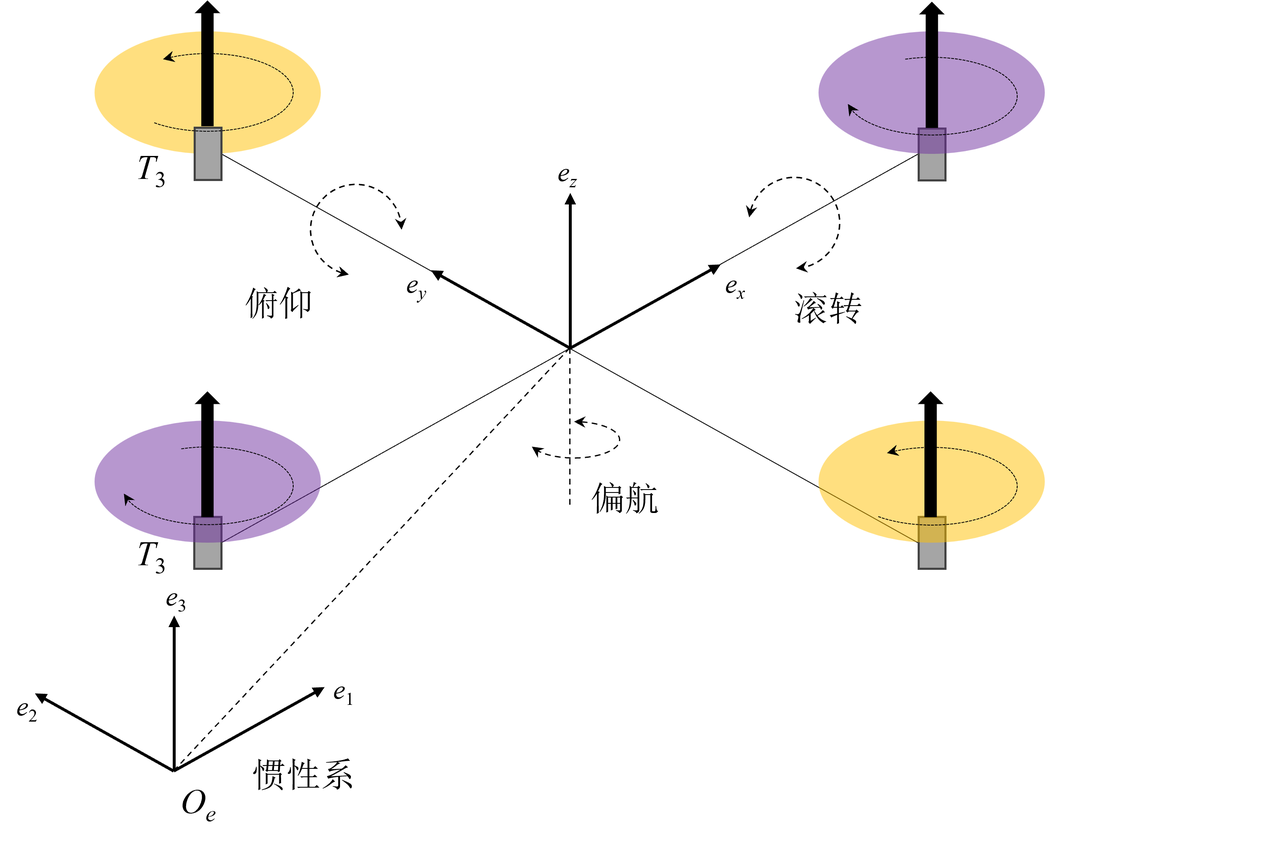
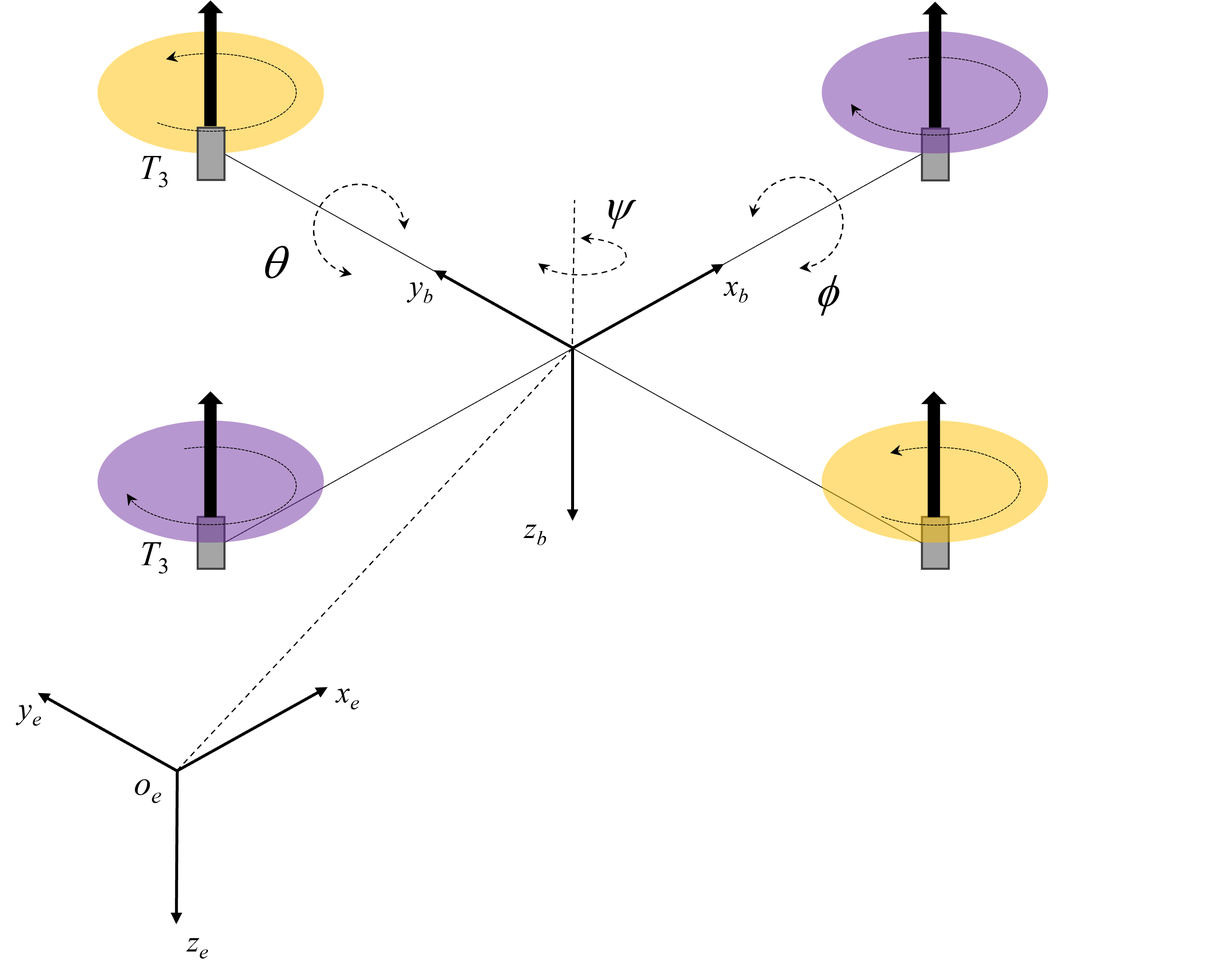
first commit

diff --git a/yanputhesis-sample.tex b/yanputhesis-sample.tex
@@ -32,8 +32,9 @@
 \usepackage{blindtext}                                      % 生成无意义文本
 \usepackage{metalogo}                                       % 软件标志
 \usepackage[binary-units=true]{siunitx}                     % 物理量单位
-\usepackage{amsmath}                                        % 基础数学库
-%\usepackage{bm}
+\usepackage{amsmath}    
+                                    % 基础数学库
+\usepackage{bm}
 %\usepackage{multirow}
 %\usepackage{bbm}
 %\usepackage{setspace}
@@ -138,7 +139,7 @@ A data-driven research on tethered hoisting \\ control of unmanned aerial vehicl
 
 系绳吊运载荷运输最初是为紧急响应、救援任务、民用和军事行动中的人力操作直升机而研究的\cite{2020A}。无人机绳系吊运载荷相比其它方法来说有着一系列的优越性，但随之而来的载荷也对无人机产生了一系列的影响。无人机绳系吊运系统是欠驱动和非线性耦合的，此外每个四旋翼无人机的动力学为载荷的摆动运动会引发无人机系统的不稳定性，同时给无人机系统增添了更多的自由度，使得此类系统的控制更具挑战性。
 
-在运输过程中，单无人机在利用吊装方式运输的时候载荷会存在摆动，且当需要运输的载荷重量与无人机系统的载荷重量相当时，任务可能会受到影响。为了解决这些问题，采用多个协作式的无人机绳系吊运系统是一个很有前途的替代方案，即将多架无人机按照期望的队形来分布，并使其在执行任务的过程中保持编队队形平稳飞行，从而圆满完成运输任务。多无人机绳系吊运系统通过根据有效载荷重量适当调整四旋翼无人机的数量，使这种悬挂式有效载荷配置能够实现最大的有效载荷输送效率，此外这种配置还可以有效控制载荷的姿态，解决了单无人机运输载荷出现摆动的问题，甚至在单无人机发生故障时仍可以完成任务需求。因此多无人机吊运负载具有可行性高、效率高以及扩展性强等单架无人机无法比拟的优势。但是，在依靠多无人机绳系吊运系统执行合作运输任务时，必须考虑一系列全新的因素。整个系统不仅受到载荷摆动的影响，而且还受到其它无人机运动的影响，如果单无人机的独立行动没有得到适当的协调，情况会变得更加复杂。
+在运输过程中，单无人机在利用吊装方式运输的时候载荷会存在摆动，且当需要运输的载荷重量与无人机系统的载荷重量相当时，任务可能会受到影响。为了解决这些问题，采用多个协作式的无人机绳系吊运系统是一个很有前途的替代方案，即将多架无人机按照期望的队形来分布，并使其在执行任务的过程中保持编队队形平稳飞行，从而圆满完成运输任务。多无人机绳系吊运系统通过根据有效载荷重量适当调整四旋翼无人机的数量，使这种悬挂式有效载荷配置能够实现最大的有效载荷输送效率，此外这种配置还可以有效控制载荷的姿态，解决了单无人机运输载荷出现摆动的问题，甚至在单无人机发生故障时仍可以完成任务需求。因此多无人机吊运载荷具有可行性高、效率高以及扩展性强等单架无人机无法比拟的优势。但是，在依靠多无人机绳系吊运系统执行合作运输任务时，必须考虑一系列全新的因素。整个系统不仅受到载荷摆动的影响，而且还受到其它无人机运动的影响，如果单无人机的独立行动没有得到适当的协调，情况会变得更加复杂。
 
 基于以上问题，本研究拟采用数据驱动方法来研究无人机绳系吊运系统，通过神经网络和无人机的动力学对整个系统进行动力学建模，提出了在线自适应神经元和模型预测控制相结合的控制算法对系绳的摆动进行抑制，在多无人机协同吊运中实现各个无人机功率消耗的均衡化，最终达到对搬运载荷的位姿的控制，有效提高系统的鲁棒性和安全性，为跨越峡谷、陡坡、滑坡体等障碍进行物资运输提供便捷、有效的手段，大大提高应急抢修作业效率，具有重要的应用价值。
 
@@ -148,7 +149,7 @@ A data-driven research on tethered hoisting \\ control of unmanned aerial vehicl
 
 对于无人机绳系吊装系统的建模方法，文献[13]假设系留综合缆绳的重力与所受风力作用于综合缆绳中心，且不考虑缆绳的拉伸变形，系留缆绳在自身重力、风的作用下呈现悬链线形状，可以求出无人机在不同位置时缆绳与机体的夹角。文献[14]基于珠点模型对水下系留无人机进行建模。文献[15]在假设缆绳不可拉伸、质量和阻尼可以忽略且具有零剪切刚度的前提下，通过分析二维平面上的无人机与系绳的运动学和动力学关系推导出系绳上的拉力。文献[16]在建立旋翼无人机的动力学模型之后，将系绳建模成无质量的，由一个阻尼单元和一个弹簧单元并联，这两个并联单元再与一个弹簧单元串联的结构。文献[17]将系绳建模为一系列通过非弹性杆连接的点质量块，通过分析这些杆件的动力学特性并进行仿真, 可以体现系绳的柔性。
 
-对于设计带有绳系吊装系统的无人机的控制器方法，卡耐基梅隆大学的Sceenath得到了定义在构型空间SE ( 3 ) × S2上的坐标自由动力学模型，并将其可以看作平坦输出的微分平坦混合系统，并给出了控制器设计的稳定性证明和仿真[18]。华盛顿大学的Lee团队提出了基于拉格朗日动力学在流形上的吊装负载，将柔性电缆用串行连接的链路进行建模，并用几何非线性控制渐近稳定无人机的位置[19]。墨西哥的Guerrero提出最小化吊装负载的摆动角度，以实现稳定[20]。香港科技大学的沈劭劼团队设计了一种具有分层扰动补偿策略的自适应NMPC来克服未知外部扰动和模型参数不准确的问题[21]。
+对于设计带有绳系吊装系统的无人机的控制器方法，卡耐基梅隆大学的Sceenath得到了定义在构型空间SE ( 3 ) × S2上的坐标自由动力学模型，并将其可以看作平坦输出的微分平坦混合系统，并给出了控制器设计的稳定性证明和仿真[18]。华盛顿大学的Lee团队提出了基于拉格朗日动力学在流形上的吊装载荷，将柔性电缆用串行连接的链路进行建模，并用几何非线性控制渐近稳定无人机的位置[19]。墨西哥的Guerrero提出最小化吊装载荷的摆动角度，以实现稳定[20]。香港科技大学的沈劭劼团队设计了一种具有分层扰动补偿策略的自适应NMPC来克服未知外部扰动和模型参数不准确的问题[21]。
 
 
 \subsection{多无人机绳系吊装载荷运输研究现状}
@@ -195,54 +196,324 @@ A data-driven research on tethered hoisting \\ control of unmanned aerial vehicl
 在本章中，将建立无人机绳系吊运系统的动力学模型。无人机绳系吊运系统由三个子系统构成：四旋翼、系绳以及吊运的载荷，系绳和吊运的载荷会对无人机自身造成一定的扰动。本章首先对四旋翼无人机的动力学模型进行推导，然后建立单无人机绳系吊运系统的动力学方程，进而将其推广到多无人机绳系吊运系统的动力学模型中，以此作为控制模型的基础。
 
 \section{单无人机绳系吊运系统的动力学模型}
-四旋翼无人机是一种基于旋翼的飞行器，由四个旋翼推动飞行。为了平衡扭矩，转子由两对对置的转子构成，一对正时针转动，一对反时针转动。四旋翼系统是高度非线性的，并且是一个欠驱动系统，有六个自由度和四个控制输入（即旋翼转速）。可以通过调整旋翼的转速来对四旋翼无人机进行控制，从而改变四旋翼无人机的扭矩和推力特性。如图 2-1 所示，四旋翼无人机设计为四个旋翼交叉共振。两个相对的旋翼沿同一方向旋转，通过改变旋翼的角速度可以控制四旋翼无人机的高度和位置。如果电机$T_1$、$T_2$、$T_3$和$T_4$产生的扭矩相同，则四旋翼无人机可以保持平衡位置而不旋转。
+四旋翼运输系统是一个复杂的系统，由四个旋翼组成，这些旋翼固定在刚性交叉体上。载荷通过绳系与四旋翼的主体连接，实现对载荷的精确控制和运输。
+四旋翼无人机是一种基于旋翼的飞行器，由四个旋翼推动飞行。为了平衡扭矩，转子由两对对置的转子构成，一对正时针转动，一对反时针转动。四旋翼系统是高度非线性的，并且是一个欠驱动系统，有六个自由度和四个控制输入（即旋翼转速）。可以通过调整旋翼的转速来对四旋翼无人机进行控制，从而改变四旋翼无人机的扭矩和推力特性。如图\ref{2_1}所示，四旋翼无人机设计为四个旋翼交叉共振。两个相对的旋翼沿同一方向旋转，通过改变旋翼的角速度可以控制四旋翼无人机的高度和位置。如果电机$T_1$、$T_2$、$T_3$和$T_4$产生的扭矩相同，则四旋翼无人机可以保持平衡位置而不旋转。
 
-\begin{figure}[htbp]
+\begin{figure}[hbt!]
 	\centering
-	\includegraphics[width=6 in]{picture/2_1.png}
-	\caption{四旋翼无人机动力学结构}
-	\label{fig-2_1}
+	\includegraphics[width=28pc]{picture/2_1.png} 
+	\caption{四旋翼无人机动力学结构} \label{2_1}
 \end{figure}
 
+
 对于四旋翼无人机的上升和下降，可以通过同时增加或减小电机$T_1$、$T_2$、$T_3$和$T_4$的转速来实现；滚转是四旋翼无人机通过向左或向右倾斜，以允许侧向移动的运动；俯仰是指四旋翼无人机通过前倾或后仰，向前或向后运动；偏航是指在与地面保持水平的情况下，以顺时针或逆时针的方式改变四旋翼无人机的方向。四旋翼无人机通过控制四个电机的转速，可以完成不同的飞行作业。本章根据四旋翼无人机的动力学特性建立数学模型，为下面章节控制器的设计奠定基础。
+
+
 \subsection{四旋翼无人机的坐标系}
+为了便于建模和描述，首先引入两个右手直角坐标系的定义，并给出两个坐标系之间的转换关系。
+\subsubsection{地面坐标系}
+地面坐标系$o_ex_ey_ez_e$用于研究四旋翼无人机相对于地面的运动状态，确定机体的三维位置。一般来说，在地面坐标系中，常用的局部坐标系统有 NED（North-East-Down）和ENU（East-North-Up）两种。NED坐标系$o_ex_e$轴指向正北，$o_ey_e$轴指向正东，$o_ez_e$轴垂直于地面向下。ENU坐标系 $o_ex_e$ 轴指向正东，
+$o_ey_e$ 轴指向正北，$o_ez_e$ 轴垂直向上，即指向天空的方向。NED 坐标系适合飞行器或船舶等需要考虑垂直下降的系统；而ENU 坐标系更直观，符合日常地理方向的习惯，常用于地面交通、测量和定位。本文使用NED坐标系，坐标原点选择在固连于地面的任意一点。
 
-\subsection{四旋翼无人机的动力学模型}
-四旋翼无人机模型分为动力学模型和运动学模型，动力学模型主要用于分析无人机的受力对无人机运动速度的影响，输入为无人机旋翼产生的拉力和力矩，输出为无人机的速度。运动学模型主要分析无人机速度对无人机位置变化产生的影响，输入为速度，输出为无人机的位置。四旋翼无人机的建模过程如下。
+\subsubsection{机体坐标系}
+本文的四旋翼无人机为“X”型气动布局结构，运动更加灵活。
+机体坐标系固连于四旋翼无人机，其原点取在四旋翼无人机的重心位置。$o_bx_b$轴在四旋翼无人机对称平面内指向机头。 $o_bz_b$轴在四旋翼无人机对称平面内，垂直轴向下。$o_by_b$轴按右手定则进行确定。机体坐标系与无人机固定连接，构成一个随四旋翼无人机运动的动坐标系。
+\subsubsection{地面坐标系与机体坐标系之间的转换关系}
+地面坐标系和机体坐标系的转换在无人机导航与控制中发挥着至关重要的作用。它可以帮助我们理解无人机在空间中的位置和姿态，同时实现精确的导航与控制。地面坐标系与机体坐标系之间的转换关系可以通过三个旋转矩阵来描述。具体来说，可以将地面坐标系依次沿机体坐标系进行旋转，即绕$z_b$轴旋转偏航角$\psi$，绕$y_b$旋转俯仰角$\theta$，绕$x_b$旋转滚转角$\phi$。对应的三个旋转矩阵$\boldsymbol{R}_\psi$、$\boldsymbol{R}_\theta$和$\boldsymbol{R}_\phi$分别为:
+$$
+\boldsymbol{R}_\psi=\begin{bmatrix}\cos\psi&-\sin\psi&0\\sin\psi&\cos\psi&0\\0&0&1\end{bmatrix} $$
+$$	\boldsymbol{R}_\theta=\begin{bmatrix}\cos\theta&0&\sin\theta\\0&1&0\\-\sin\theta&0&\cos\theta\end{bmatrix} $$
+$$\boldsymbol{R}_\phi=\begin{bmatrix}1&0&0\\0&\cos\phi&\sin\phi\\0&-\sin\phi&\cos\phi\end{bmatrix}
+$$
+
+因此，通过上述三个旋转矩阵，可以得到将任意矢量从地面坐标系转换到机体坐标系的转换矩阵为：
+$$\begin{aligned}\boldsymbol{R}_{e-b}&=\boldsymbol{R}_{\psi}\boldsymbol{R}_{\theta}\boldsymbol{R}_{\phi}\\&=\begin{bmatrix}\cos\theta\cos\psi&\cos\theta\cos\psi&-\sin\theta\\\sin\phi\sin\theta\cos\psi-\cos\phi\sin\psi&\sin\phi\sin\theta\sin\psi+\cos\phi\cos\psi&\sin\phi\cos\theta\\\cos\phi\sin\theta\cos\psi+\sin\phi\sin\psi&\cos\phi\sin\theta\sin\psi-\sin\phi\cos\psi&\cos\phi\cos\theta\end{bmatrix}\end{aligned}$$
+
+从机体坐标系到地面坐标系的转换矩阵为：
+$$\begin{aligned}\boldsymbol{R}_{b-e}&=\bm{R}_{e-b}^\mathrm{T}\\&=\begin{bmatrix}\cos\theta\cos\psi&\sin\phi\sin\theta\cos\psi-\cos\phi\sin\psi&\cos\phi\sin\theta\cos\psi+\sin\phi\sin\psi\\\cos\theta\cos\psi&\sin\phi\sin\theta\sin\psi+\cos\phi\cos\psi&\cos\phi\sin\theta\sin\psi-\sin\phi\cos\psi\\-\sin\theta&\sin\phi\cos\theta&\cos\phi\cos\theta\end{bmatrix}\end{aligned}$$
+
+\subsection{四旋翼无人机的模型}
+四旋翼无人机模型分为运动学模型、动力学模型和控制效率模型，动力学模型既涉及运动又涉及受力情况，与物体的质量和转动惯量相关，主要用于分析无人机的受力对无人机运动速度的影响，输入为无人机旋翼产生的拉力和力矩，输出为无人机的速度和角速度。运动学模型与质量和受力无关，主要分析无人机速度对无人机位置变化产生的影响，输入为速度和角速度，输出为无人机的位置和姿态。控制效率模型输入为螺旋桨转速，输出为拉力和力矩，当已知螺旋桨转速时，可以通过控制效率模型计算出拉力和力矩。
+
+为了简便，在对四旋翼无人机进行建模时，做了如下假设：
+
+(1)四旋翼无人机是刚体结构，没有内力，飞行时结构无形变；
+
+(2)四旋翼无人机的质量、螺旋桨阻力系数和转动惯量等基础参数默认不变；
+
+(3)四旋翼无人机总保持对称结构，其几何中心与重心位置一致；
+
+(4)四旋翼无人机只受重力和螺旋桨拉力影响，其中重力沿$o_ez_e$轴正方向，螺旋桨拉力沿$o_bz_b$轴负方向。
+
+运动学方程描述了无人机位置与速度以及速度和角速度之间的关系，其运动学方程可以表示为：
+
+\begin{equation}
+    \begin{aligned}
+	\dot{\boldsymbol{p}}_e &= \boldsymbol{v}_e = \bm{R}_{b-e} \bm{v}_b \\
+	\bm{\Theta}_e &= \bm{W}_{b-e} * \bm{\omega}_b
+\end{aligned}\label{2-1}
+\end{equation}
+其中，$\boldsymbol{p}_e=\left[x,y,z\right]^\mathrm{T}$为无人机在地面坐标系下的位置坐标，$\boldsymbol{v}_e=\left[v_{x},v_{y},v_{z}\right]^\mathrm{T}$为无人机在地面坐标系下的线速度，$\boldsymbol{v}_b=\left[u,v,w\right]^\mathrm{T}$表示无人机在机体坐标系下的线速度，$u$、$v$、$w$表示分别沿$x$、
+$y$、$z$机体坐标轴方向的线速度分量，$\boldsymbol{R}_{b-e}$为上一小节定义的转换矩阵，$\bm{\Theta}_e=\left[\phi,\theta,\psi\right]^\mathrm{T}$表示无人机在地面坐标系下的姿态角度，$\bm{W}_{b-e}$表示地面坐标系下欧拉角速度变换到机体旋转角速度的旋转矩阵，$\boldsymbol{\omega}_b=\left[{\omega}_{xb},{\omega}_{yb},{\omega}_{zb}\right]^\mathrm{T}$ 为无人机机体坐标系下的角速度，可以得到姿态旋转矩阵具体形式如式(\ref{2-2})所示：
+\begin{equation}
+	\boldsymbol{\omega}_b=\begin{bmatrix}\omega_{xb}\\\omega_{yb}\\\omega_{zb}\end{bmatrix}=\begin{bmatrix}1&0&-\sin\theta\\0&\cos\phi&\cos\theta\sin\phi\\0&-\sin\phi&\cos\theta\cos\phi\end{bmatrix}\begin{bmatrix}\dot\phi\\\dot\theta\\\dot\psi\end{bmatrix}
+	\label{2-2}
+\end{equation}
+
+
+
+一般来说，四旋翼无人机飞行时其姿态角在小范围内运动，可以近似认为有下式成立：
+\begin{equation}
+	\boldsymbol{\omega}_b=\begin{bmatrix}{\omega}_x\\{\omega}_y\\{\omega}_z\end{bmatrix}=\begin{bmatrix}\dot{\phi}\\\dot{\theta}\\\dot{\psi}\end{bmatrix}
+	\label{2-3}
+\end{equation}
+
+以上详细描述了四旋翼无人机系统的运动学模型以及其在不同坐标系下的位置与线速度、角度与角速度之间的转换关系。接下来，将无人机整体视为一个刚体，将其分解为平移运动和旋转运动两个部分。通过牛顿法分析其平移运动，通过欧拉法分析其旋转运动，从而构建其动力学模型。其动力学的基本方程如式(\ref{2-4})所示：
+\begin{equation}
+	\begin{aligned}
+		m\dot{\boldsymbol{v}}_e&=mg\bm{e}_{3}-\boldsymbol{R}_{b-e}f\bm{e}_{3}\\
+		\boldsymbol{J}\dot{\boldsymbol{\omega}_b}&=-\bm \omega_b \times \bm J \bm \omega_b+\boldsymbol{\tau}
+	\end{aligned}\label{2-4}
+\end{equation}
+其中$m$为无人机的质量，$g\in\mathbb{R}_+$为重力加速度，$\bm{e_{3}}=\left[0,0,1\right]^\mathrm{T}$，$\boldsymbol{\tau}=\left[\tau_x,\tau_y,\tau_z\right]^\mathrm{T}$表示无人机四个螺旋桨产生的扭矩，$\boldsymbol{J}$为无人机的惯量矩阵，$f\in\mathbb{R}_+\cup\{0\}$表示无人机螺旋桨总拉力的大小，该拉力是单向的,其形式如式 (\ref{2-5})所示：
+\begin{equation}
+	f=\sum_{i=1}^4f_i=c_\mathrm{T}\Omega_i^2
+	\label{2-5}
+\end{equation}
+其中$f_i$表示表示一个旋翼在机体坐标系下旋转产生的升力，与旋翼的转速的平方正相关。$c_\mathrm{T}=1/4\pi^2\cdot\rho D_\mathrm{p}^4C_\mathrm{T}$为螺旋桨的升力系数，大小与其自身的材质、倾斜角等因素有关，$\Omega_i$为
+单个螺旋浆的旋转速度。由于本文采用“X”型气动布局，实际力臂长度是机臂长度的$\sqrt{2}/2$倍，可以得到无人机每个螺旋桨产生的力矩如式(\ref{2-6})所示：
+
+
+\begin{equation}
+	\left\{ \begin{array}{l}
+		\tau_x={\sqrt{2}}/{2}dc_\mathrm{T}\left(\Omega_1-\Omega_2-\Omega_3+\Omega_4\right)\\
+		\tau_y={\sqrt{2}}/{2}dc_\mathrm{T}\left(\Omega_1+\Omega_2-\Omega_3-\Omega_4\right)\\
+		\tau_z=c_\mathrm{M}\left(\Omega_1-\Omega_2+\Omega_3-\Omega_4\right)\\
+	\end{array} \right.
+		\label{2-6}
+\end{equation}
+其中$c_M$为螺旋桨的反扭力系数，其产生的力矩方向沿$z$轴方向。$d\in\mathbb{R}_+$为无人机重心和任一电机转动轴线之间的距离。为了能够对应控制器中的控制量，定义虚拟控制变量为$\bm{U}=\left[U_1,U_2,U_3,U_4\right]^\mathrm{T}=\left[f,\tau_x,\tau_y,\tau_z\right]^\mathrm{T}$，那么，将式(\ref{2-2})、(\ref{2-3})、(\ref{2-5})、(\ref{2-6})代入式(\ref{2-1})和(\ref{2-4})中，即可得到四旋翼无人机的控制模型：
+
+
+\begin{equation}
+		\left\{
+	\begin{aligned}
+		&\dot{x}=v_{x}\\
+		&\dot{y}=v_{y}\\
+		&\dot{z}=v_{z}\\
+		&\ddot{x}=\frac{U_{1}}{m}\left(\cos\phi\cos\psi\sin\theta+\sin\phi\sin\psi\right)\\
+		&\ddot{y}=\frac{U_{1}}{m}\left(\cos\phi\sin\psi\sin\theta-\cos\psi\sin\phi\right)\\
+		&\ddot{z}=\frac{U_{1}}{m}\left(\cos\phi\cos\theta\right)-g\\
+		&\dot{\phi}={\omega}_x+\tan\theta\left({\omega}_y\sin\phi+{\omega}_z\cos\phi\right)\\
+		&\dot{\theta}={\omega}_y\cos\phi-{\omega}_z\sin\phi\\
+		&\dot{\psi}=\frac{{\omega}_y\sin\phi+{\omega}_z\cos\phi}{\cos\theta}\\
+		&\ddot{\phi}=\frac{(I_{y}-I_{z})\cdot \dot{\theta}\dot{\psi}+U_{2}}{I_{x}}\\
+		&\ddot{\theta}=\frac{(I_{z}-I_{x})\cdot \dot{\phi}\dot{\psi}+U_{3}}{I_{y}}\\
+		&\ddot{\psi}=\frac{(I_{x}-I_{y})\cdot \dot{\phi}\dot{\theta}+U_{4}}{I_{z}}\end{aligned}
+	\right.
+	\label{2-7}
+\end{equation}
 \subsection{四旋翼无人机绳系吊运系统的动力学模型}
+在本文的吊装运输场景中，四旋翼无人机在满足自身飞行需求的同时，还会受到吊装载荷对其作用的拉力干扰，单无人机吊装载荷受力分析如图 \ref{2_2} 所示，其中$\bm{F}$表示无人机的升力，$\bm{G}$表示无人机自身的重力，$\bm{G_0}$表示无人机自身的重力，$\bm{T}$表示载荷对无人机产生的拉力，$\theta$表示系绳与垂直平面之间的夹角。
+\begin{figure}[hbt!]
+	\centering
+	\includegraphics[width=21pc]{picture/2_2.png} 
+	\caption{单无人机吊装载荷受力分析} \label{2_2}
+\end{figure}
+
+在推导对四旋翼无人机绳系吊运系统的动力学模型之前，先做了如下假设：
+
+(1)多无人机协同吊装系统所吊挂的载荷被视为刚体； 
+
+(2)无人机的姿态角不超过$\pi/2$；
+
+ 
+通过以上假设对系统的模型进行了简化，使得任务更合理。对于四旋翼无人机绳系吊运系统来说，在轨迹跟踪时其系绳并不一定总是保持绷直状态的，在无人机的高速移动中系绳上的张力可能为零。因此，本文建立四旋翼无人机绳系吊运系统的混合模型，考虑系绳上的张力不为零和张力为零这两种情况。
+
+\subsubsection{系绳张力不为零时的动力学模型}
+
+四旋翼无人机绳系吊运系统由载荷相对于地面坐标系的位置、载荷姿态和四旋翼飞行器的姿态来定义。当系绳拉紧时，该系统具有八个自由度，并存在四个自由度的欠驱动。四旋翼无人机和载荷的位置之间的关系为：
+
+\begin{equation}
+	p_Q=p_L-lq,
+\end{equation}
+其中$p_Q$、$p_L$分别为四旋翼无人机和载荷的位置，$l$为系绳的长度，$q$表示从四旋翼无人机指向载荷的单位向量。本文采用拉格朗日法来推导运动方程。系统的拉氏量 $\mathcal{L}:T\bar{Q}\to\mathbb{R}$ 定义为$\mathcal{L}=\mathcal{T}-\mathcal{U}$，其中$\mathcal{T}:TQ\to\mathbb{R}$和${\mathcal{U}}:Q\to\mathbb{R}$分别是机械系统的动能和势能，它们的定义如下：
+
+\begin{equation}
+		\begin{aligned}
+	\mathcal{T}=\frac{1}{2}m_{Q}v_{Q}\cdot v_{Q}+\frac{1}{2}m_{L}v_{L}\cdot v_{L}+\frac{1}{2}\langle\hat{\Omega},\widehat{J_{Q}\Omega}\rangle\\
+	\mathcal{U}=m_{Q}ge_{3}\cdot x_{Q}+m_{L}ge_{3}\cdot x_{L}
+		\end{aligned}
+	\label{2-8}
+\end{equation}
+其中$v_Q$、$v_L$分别为无人机和载荷的速度，$m_Q$、$m_L$分别为无人机和载荷的质量，$\langle\cdot,\cdot\rangle $表示内积，$\hat{.}$被定义为使得 $\hat{x}y=x\times y$对于所有$x,y\in\mathbb{R}^3$恒成立。在本文中，$\lambda_m(\cdot)$和 $\lambda_n(\cdot)$ 分别表示矩阵的最小和最大特征值。系统的动力学满足拉格朗日原理：
+\begin{equation}
+	\delta\int_0^\tau\mathcal{L} dt+\int_0^\tau\left(\langle W_1,\hat{\tau}\rangle+W_2\cdot f\bm{R}_{b-e}e_3\right) dt=0
+	\label{2-10}
+\end{equation}
+其中$W_{1}=R^{T}\delta R$， $ W_{2}=\delta x_{Q}=\delta x_{L}-l\delta q$是变分向量场，满足以下条件：
+\begin{equation}
+	\begin{aligned}
+		\delta q = \xi \times& q, \quad \xi \in \mathbb{R}^{3} \ \mathrm{s.t.} \ \xi \cdot q = 0 \\
+		\delta \dot{q} &= \dot{\xi} \times q + \xi \times \dot{q} \\
+		\delta R& = R \hat{\eta}, \quad \eta \in \mathbb{R}^{3} \\
+		&\delta \hat{\Omega} = \widehat{\hat{\Omega} \eta} + \hat{\dot{\eta}}
+	\end{aligned}
+\end{equation}
+其中$\delta q$为二维球面上的变分，$\delta R$为三维空间上的变分。
+由于(\ref{2-10})对所有可能的变化都是满足的，因此得到了带有系绳载荷的四旋翼无人机的运动方程为：
+
+\begin{equation}
+	\begin{aligned}
+		&\dot{x}_{L}=v_{L}, \\
+		(m_Q+m_L)(\dot{v}_L+ge_3)& =(q\cdot fRe_3-m_Ql(\dot{q}\cdot\dot{q}))q, \\
+		&\dot{q}=\omega\times q, \\
+		m_{Q}l \dot{\omega}&=-q\times fRe_{3}, \\
+		&\dot{R}=R\hat{\Omega}, \\
+		J_{Q}\dot{\Omega}+&\Omega\times J_{Q}\Omega=M.
+	\end{aligned}
+\end{equation}
+
+上述动力学可以写成标准形式$\dot{X}_n=f_n(X_n)+g_n(X_n)u$，其中$X_n = \{x_L,q,R,v_L,\omega,\Omega\}$是系统的状态，$u = { f，M }$是系统的输入。
+\subsubsection{系绳张力为零时的动力学模型}
+当缆绳张力趋于零时，四旋翼飞行器和吊挂载荷作为独立系统，载荷处于自由落体状态。这种情况下的动力学模型是：
+\begin{equation}
+	\begin{aligned}
+		&\dot{x}_{L}=v_{L}\\
+		\quad m_{L}(&\dot{v}_{L}+ge_{3})=0\\
+		&\dot{x}_{Q}=v_{Q}\\
+		\quad m_{Q}(\dot{v}_{Q}&+ge_{3})=fRe_{3}\\
+		&\dot{R}=R\hat{\Omega}\\
+		\quad J_{Q}\dot{\Omega}+&\Omega\times J_{Q}\Omega=M
+	\end{aligned}
+\end{equation}
+上述动力学也可以写成标准形式$\dot{X}_n=f_n(X_n)+g_n(X_n)u$，其中$X_n=\{x_L,x_Q,R,v_L,v_Q,\Omega\}$为状态。
+
+\subsubsection{混合系统的动力学模型}
+系绳悬挂载荷的四旋翼飞行器是一个混合系统，因为当缆索中的张力降为零或当张力恢复时松弛的缆索变得绷紧时，动力学会发生切换。混合模型可以写成，
+\begin{equation}
+	\left.\begin{aligned}&\Sigma_{n}\quad:\quad\left\{\begin{array}{ll}\dot{X_n}=f_n(X_n)+g_n(X_n)u,&X_n\notin S_z\\X_z^+=\Delta_{n\to z}(X_n^-),&X_n\in S_z\end{array}\right.\\&\Sigma_{z}\quad:\quad\left\{\begin{array}{ll}\dot{X_z}=f_z(X_z)+g_z(X_z)u,&X_z\notin S_n\\X_n^+=\Delta_{z\to n}(X_z^-),&X_z\in S_n,\end{array}\right.\end{aligned}\right.
+\end{equation}
+过渡映射∆n→z是恒等映射，∆z→n被建模为两个物体的非弹性碰撞，保证x ̇ + Q-x ̇ + L = 0。
+
 \section{多无人机绳系吊运系统的动力学模型}
+在本文中，我们采用三个无人机吊挂载荷的方式来运输载荷。该吊运系统
+由三个四旋翼无人机、三根绳索和一个需要被运输的重物组成。其吊运结构如图 \ref{2_3} 所示，三架无人机保持水平高度一致，无人机之间的相对距离为d。为建
+立多机吊运系统的动力学模型，本章采用了两个坐标系，即惯性坐标系和机体
+坐标系。
 
 
+基于以下几个假设条件对三机吊运系统进行动力学建模：
+（1）四旋翼无人机是一个刚体模型，有效载荷被视为一个质点；
+（2）连接无人机与有效载荷之间的绳索为无弹性绳索，且质量可忽略；
+（3）不考虑空气阻力等环境扰动。
+在多无人机吊挂载荷运输系统中，对四旋翼无人机进行受力分析，与单机
+模型相比不同的是，吊运无人机承受了额外的绳子拉力，因此其运动学和动力学模型表达式为：
 
+\begin{equation}
+	\begin{cases}{}^{e}\dot{\boldsymbol{p}}={}^{e}\boldsymbol{v}\\{}^{e}\dot{\boldsymbol{v}}=-g\boldsymbol{e}_{3}+\frac{f_{T}}{m}\boldsymbol{R}_{b}^{e}\boldsymbol{e}_{3}-\frac{f_{L}}{m}\\\dot{\boldsymbol{\Theta}}=\boldsymbol{W}\cdot^{b}\boldsymbol{\omega}\\\boldsymbol{J}\cdot^{b}\dot{\boldsymbol{\omega}}+^{b}\boldsymbol{\omega}\times(\boldsymbol{J}\cdot^{b}\boldsymbol{\omega})=\boldsymbol{\tau}+\boldsymbol{\tau}_{L}\end{cases}
+\end{equation}
 
-\section{本章小结}
+其中$f_{L}=[f_{L_{-}x},f_{L_{-}y},f_{L_{-}z}]^{\mathrm{T}}$表示惯性系下绳子产生的拉力向量。$\tau_{L}$表示绳子拉力对四旋翼无人机机体产生的力矩向量。
+
+在惯性坐标系下，载荷位置向量为$p_{l}=[p_{lx},p_{ly},p_{lz}]^{\mathrm{T}}$，三个无人机的位置向
+量分别用$p_{q1}$、$p_{q2}$、$p_{q3}$来表示，吊绳长度为$L$。对悬吊的载荷进行受力分析，由牛顿第二定律可得出：
+\begin{equation}
+	\begin{aligned}
+		&f_{Li}=\frac{1}{L}(p_{qi}-p_{l})T_{i} \\
+		&m_{1}\ddot{p}_{1}=-m_{1}ge_{3}+\sum_{i=1}^{3}f_{Li}
+	\end{aligned}
+\end{equation}
+其中$f_{Li}$表示第i根绳子在惯性坐标系下所提供的拉力向量；$T_{i}$表示第$i$根绳子提供的拉力值标量。
+
+\begin{figure}[hbt!]
+	\centering
+	\includegraphics[width=23pc]{picture/2_3.png} 
+	\caption{多无人机吊运系统} \label{2_3}
+\end{figure}
+
+\section{本章总结}
 
 \cleardoublepage
 
-\chapter{基于数据驱动的单无人机吊运控制}
-\chaptermark{基于数据驱动的单无人机吊运控制}
+\chapter{单无人机吊运控制}
+\chaptermark{单无人机吊运控制}
 
-\section{title}
-\section{title}
-\section{title}
-\section{title}
-\section{title}
-\section{title}
+许多学者都关注了单个无人机的控制问题，但是对于单个无人机搬运的控制问题，尤其是高精度跟踪控制问题比较难处理，再加上本文还有无人机搬运的载荷也会对无人机产生影响，所以本章考虑对载荷的精确位置跟踪控制问题。本章的任务是对无人机设计控制器，使得载荷能够跟踪指定的参考路径运动。 
+
+本文把载荷当成一种干扰，首先用干扰观测器把载荷对无人机外环和内环的影响估计出来，然后在所设计的控制器中将该干扰进行补偿，这样所设计的控制器可以消除干扰对系统的影响，从而提高无人机搬运载荷的控制精度。
+
+\section{问题描述}
+在第 2 章中，我们介绍了单无人机绳系吊运系统的动力学模型，并建立了系绳上张力为零和不为零这两种情况组成的混合模型，该模型需要考虑两种情况之间的切换过程，然而对于控制器来说，载荷的状态信息是难以直接进行获取的。因此，本章采用数据驱动的方法，将动力学模型表达式(2-26)改写成如下形式：
+\begin{equation}
+	\begin{aligned}
+		\dot{\boldsymbol{p}}_e = \boldsymbol{v}_e, \
+		\dot{\boldsymbol{v}}_e = m^{-1}\left(-mg\bm{e}_3+\boldsymbol{R}f\bm{e}_3+\bm{f}_p+\bm{f}_{\text{res}}\right) \\
+		\dot{\bm{R}} = \bm{R} \bm{\omega}_b^{\times}, \
+		\dot{\boldsymbol{\omega}}_b = \boldsymbol{J}^{-1}\left(-\bm{\omega}_b^{\times}\bm{J} \bm{\omega}_b+\boldsymbol{\tau}+ \bm{\tau}_p+ \bm{\tau}_{\text{res}}\right)
+	\end{aligned}\label{3-1}
+\end{equation}
+
+
+
+其中，$\bm{f}_p$和$\bm{\tau}_p$分别为有效载荷作用在无人机上的力和扭矩，$\bm{f}_\text{res}$和$\bm{\tau}_\text{res}$分别为无人机自身产生的残余力和扭矩。
+为完整起见，我们将无人机受到的有效载荷和残余力叠加到一起，当作未知的非线性项即$\bm f_e = \bm f_p+ \bm f_{\text{res}}$ 和 $\bm \tau_e = \bm \tau_p+\bm \tau_{\text{res}}$ 。
+	
+该动力学模型中，非线性项$\bm f_e$和$\bm \tau_e$都是动态时变函数，其与无人机和吊挂载荷的运动状态高度耦合。本章需要解决问题是使用基于数据驱动的方法学习单无人机绳系吊运系统未知的系绳和载荷模型，然后将学习到的模型用非线性项进行表示，并集成到控制器中，实现无人机对期望轨迹的准确跟踪。 
+
+
+
+\section{Koopman算子理论}
+本章中基于数据驱动的方法都采用了Koopman算子理论，因此，对Koopman算子理论做一个简单介绍。
+
+
+
+
+Koopman算子理论是分析复杂系统的强大而密切相关的方法。其可以利用从数值模拟、实验或历史记录中收集的数据，提取与预测、分析和参数优化相关的重要动态特征。
+Koopman算子是定义在任何非线性系统上的线性算子，这种线性算子的谱分析为分析非线性动力系统产生的流提供了一种分析和数值工具。
+Koopman算子可以用无限维线性系统全局捕捉非线性动力学，这为分析非线性系统提供了一种新的方法。
+	
+库普曼算子 在库普曼算子框架[37]中，非线性系统的行为可以通过一个无限维线性算子来捕捉，从而允许使用强大而全面的线性系统分析技术。这一特点使得非线性可观测性分析 [38]、状态观测器设计 [39]、[40] 和共享控制 [41] 等各种应用成为可能。在 [42] 和 [43] 中，研究人员将 Koopman 算子扩展到具有外生输入的动力系统。为便于阐述，我们暂时不考虑 (3) 中的因子 z，先回顾一下 Koopman 算子，然后介绍如何修改算法以确保其完整性。	
+	
+考虑一个离散非线性动力学系统：
+\begin{equation}
+		\bm{x}_{t+1}=\bm{f(x_t)}
+\end{equation}
+其中$f$为从$\mathcal{M}$到自身的映射，$k$ 为整数索引。对于大多数实际工程问题，我们认为我们的状态和流形是 x∈Rnx 。我们可以等价地描述连续时间系统的 Koopman 算子理论，但在这里，我们仅限于离散时间设置，因为大多数工程问题收集的都是离散时间数据。我们还定义了一组标量值可观测函数 g : H → R，它构成了一个无限维的希尔伯特空间。库普曼算子 K 作用于这组可观测函数：
+
+$\bm{x}\in\mathbb{R}^n$，$\bm{u}\in\mathbb{R}^p$
+	
+	
+\section{基于数据驱动的模型预测控制器的设计}
+\subsection{带提升线性系统的学习动力学}
+
+
+\subsection{基于学习的外力和力矩捕获方案}
+
+
+
+\subsection{约束嵌入函数的 Lipschitz 常数}
+
+\subsection{利用学习到的动力学实现控制器}
+
+
+\section{仿真验证}
+
+
+\section{本章总结}
+
+
+
 
 \cleardoublepage
 
-\chapter{基于数据驱动的多无人机吊运控制}
-\chaptermark{基于数据驱动的多无人机吊运控制}
+\chapter{多无人机吊运控制}
+\chaptermark{多无人机吊运控制}
 
 \section{引言}
 建立航天器间精确碰撞约束后，服务星极近距离消旋位姿轨迹的规划得以进行。本章根据消旋任务的特点，将其划分为不同的阶段，针对不同阶段的任务需求，基于引导优化的规划框架，结合第三章所提出的碰撞风险评估方法，给出了各阶段位姿轨迹的规划方法，并通过仿真算例验证了所提极近距离消旋位姿轨迹规划方法的有效性。
 
 \section{任务流程分析}
-如前所述，本文将极近距离消旋操作分为极近距离逼近和极近距离消旋两个阶段，采用上一章所提出的基于混合高斯模型的碰撞风险评估方法，来构建章动目标和服务星的精确安全区域与避撞约束。这使得避撞约束复杂非凸，且需对章动目标与服务星间的相对位置和姿态进行同步规划，直接优化求解法难以保证成功率，解析计算法则易陷入局部极小值中。考虑到章动目标采用了全运动周期型安全区域，可以视为静态的障碍物，故规划中的避撞部分和轨迹优化部分可以解耦，因此，本文采用引导优化的框架完成两阶段的轨迹规划。针对两阶段的不同特点，本节对其位姿轨迹规划方法的要求进行了分析。
-
-在极近距离逼近阶段，服务星还未逼近章动目标，磁场源未开启，章动目标所受外力可以忽略，其角惯量轴和章动角保持不变，故期望相对位姿恒定，逼近轨迹规划的时间较为充足。因此，极近距离逼近阶段可以采用随机搜索算法获得一条理想的参考路径，再对轨迹的可行性、平滑度、速度平滑度等进行优化。
-
-服务星逼近章动目标后，进入极近距离消旋阶段，章动目标受到服务星所施加的消旋力与消旋力矩，其角惯量轴和章动角逐渐变化。为避免发生碰撞并最大化消旋力矩，需对期望位姿进行更新，并给出转移轨迹。这一阶段对轨迹规划的实时性有一定要求，故极近距离消旋阶段应及时确定一条无碰撞的参考路径，并将消旋力矩作为指标之一对轨迹进行优化。
 
 
 
